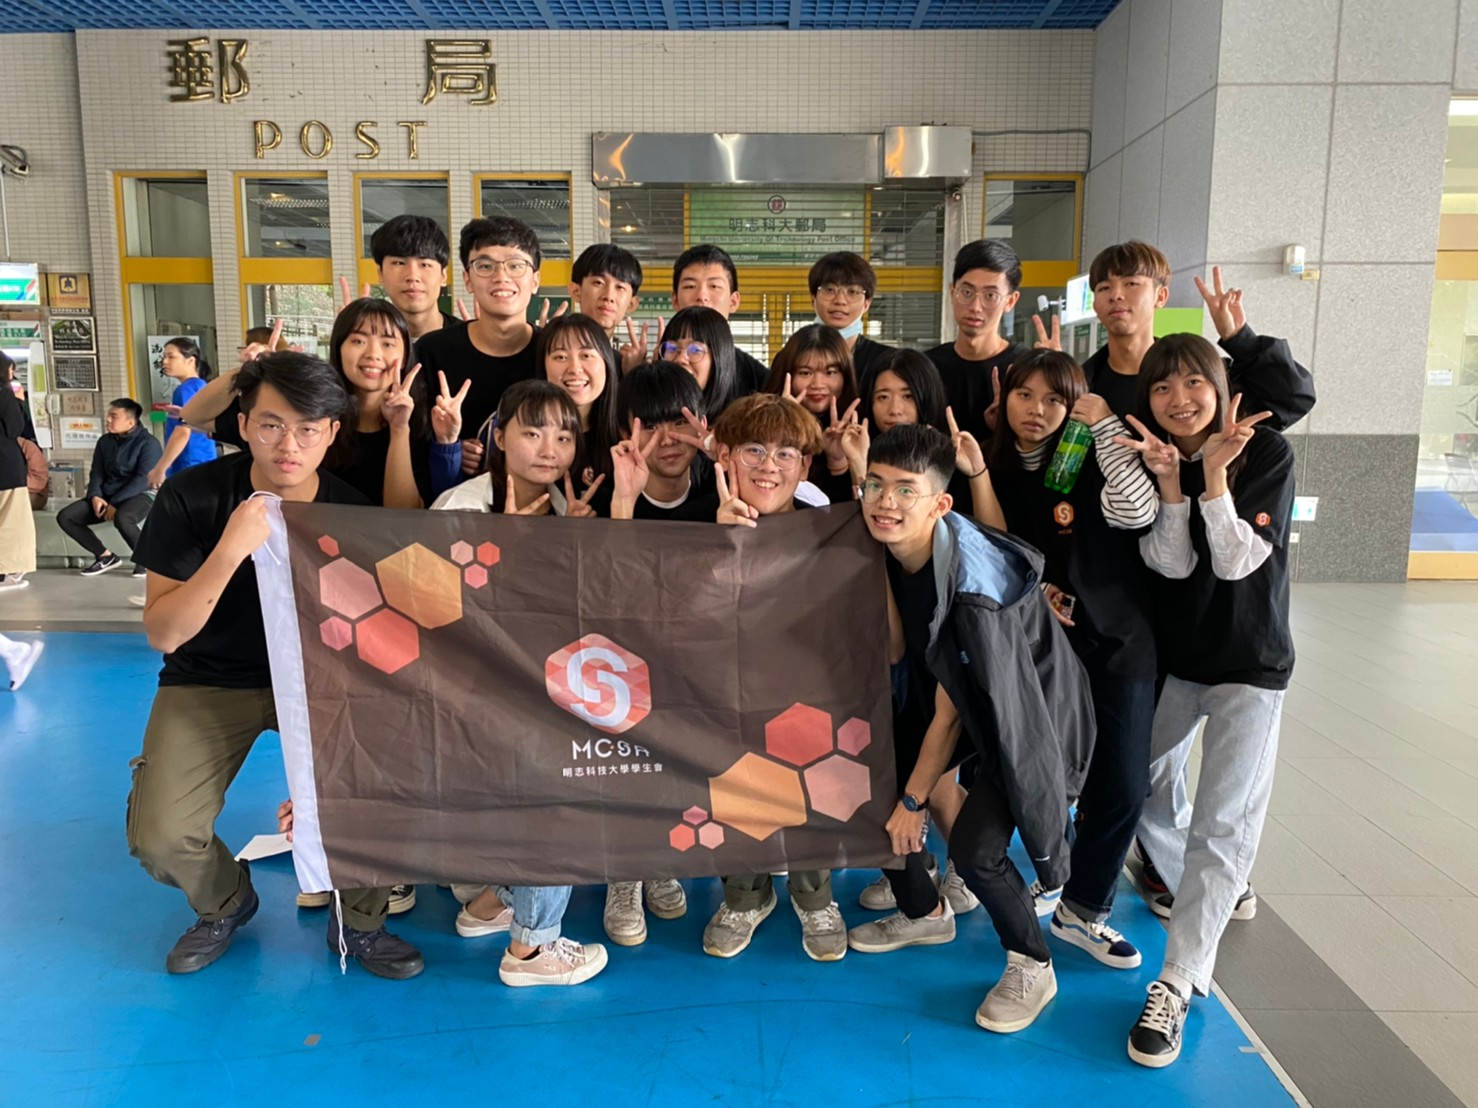
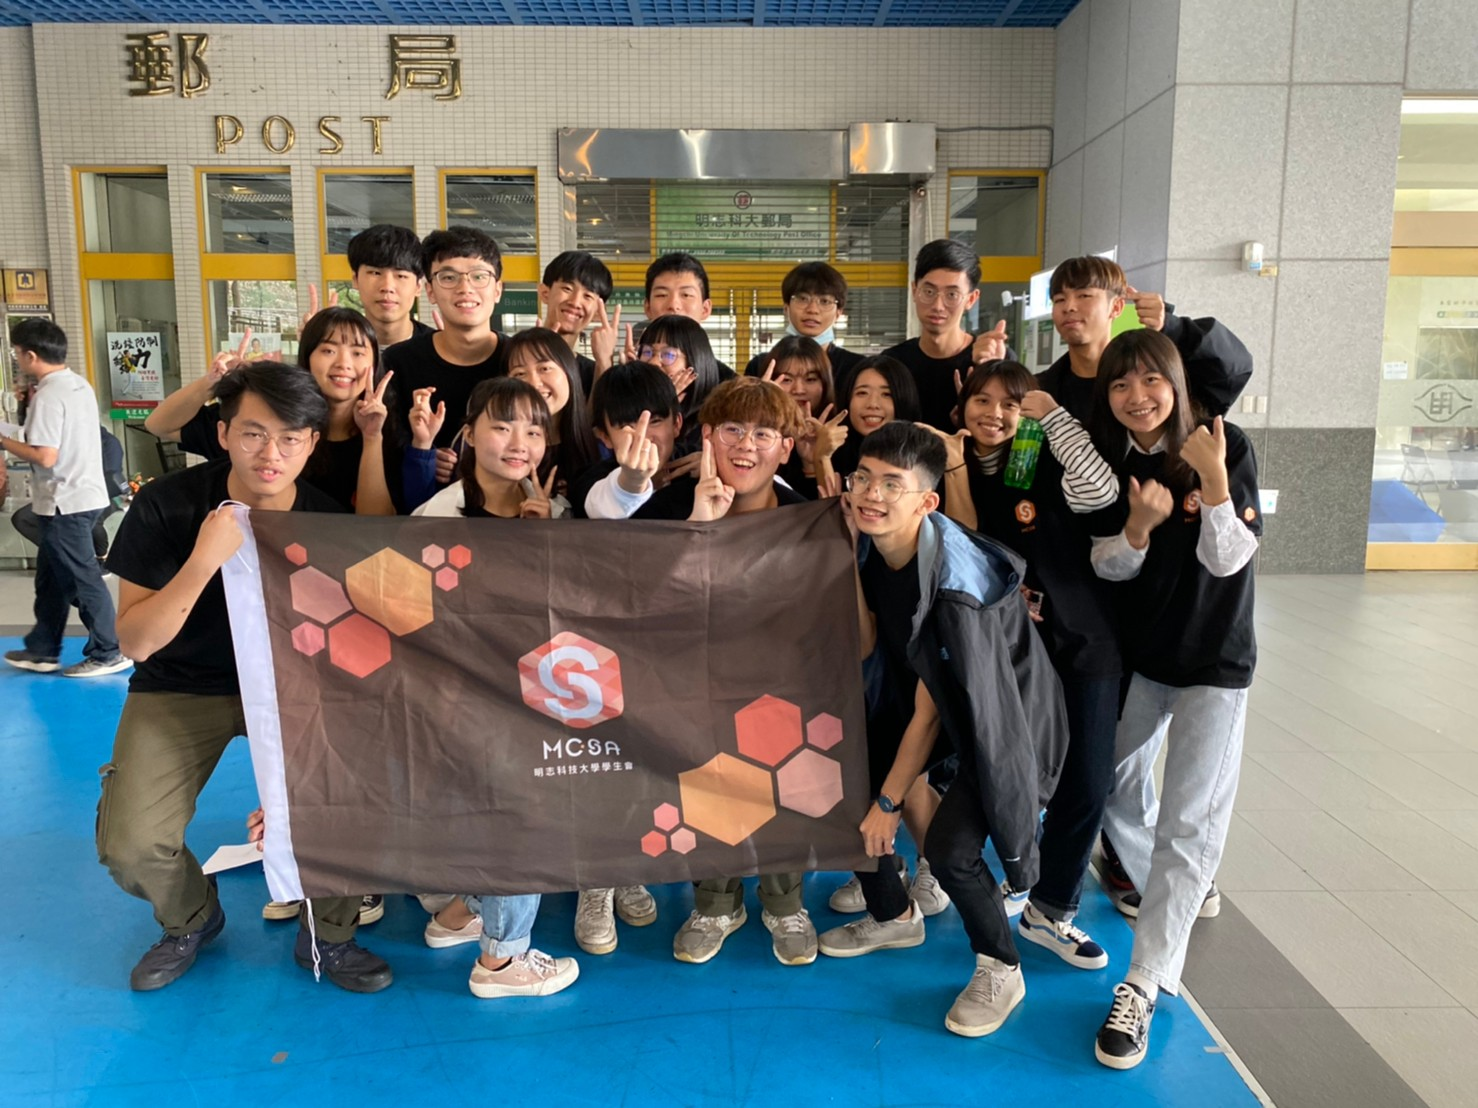
main

diff --git a/about/index.html b/about/index.html
@@ -44,7 +44,7 @@
 		<!--about-->
 	<article id="about" class="post style1 alt">
 				<div class="image">
-					<img src="images/pic15.jpg" alt="" data-position="10% center" />
+					<img src="images/pic15.jpg" alt="" data-position="28% center" />
 				</div>
 				<div class="content">
 					<div class="inner">
@@ -247,7 +247,7 @@
 		<!-- eight -->
 			<article id="eight" class="post invert style2 alt ">
 				<div class="image">
-					<img src="images/pic06.jpg" alt="" data-position="60% center" />
+					<img src="images/pic06.jpg" alt="" data-position="41% center" />
 				</div>
 				<div class="content">
 					<div class="inner">
